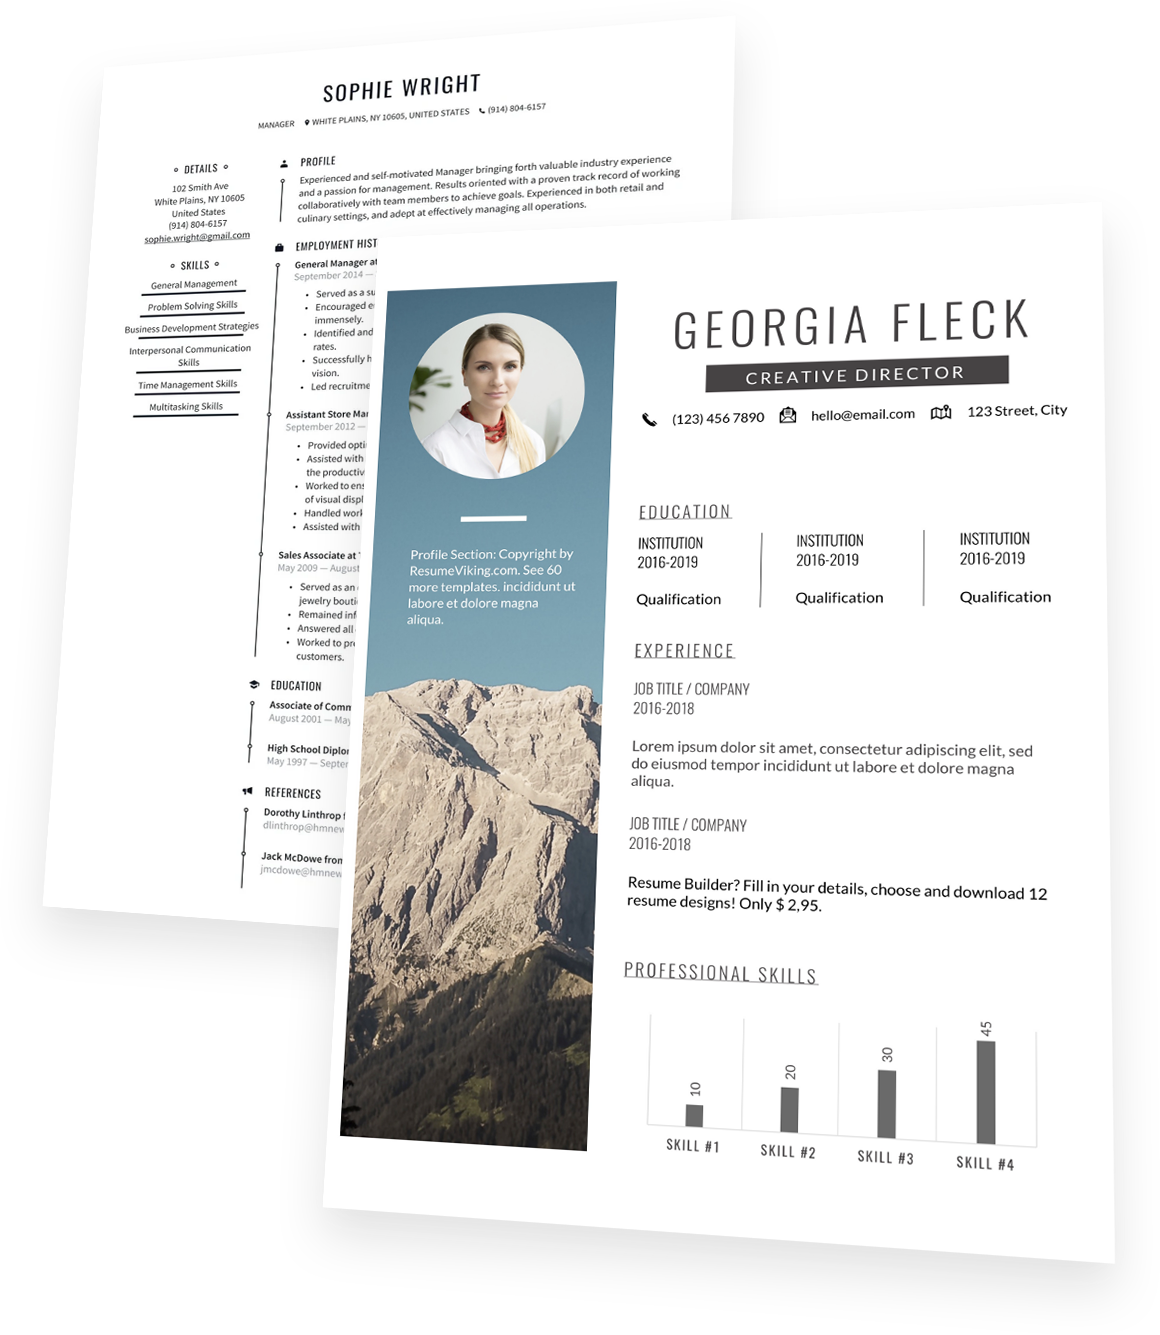
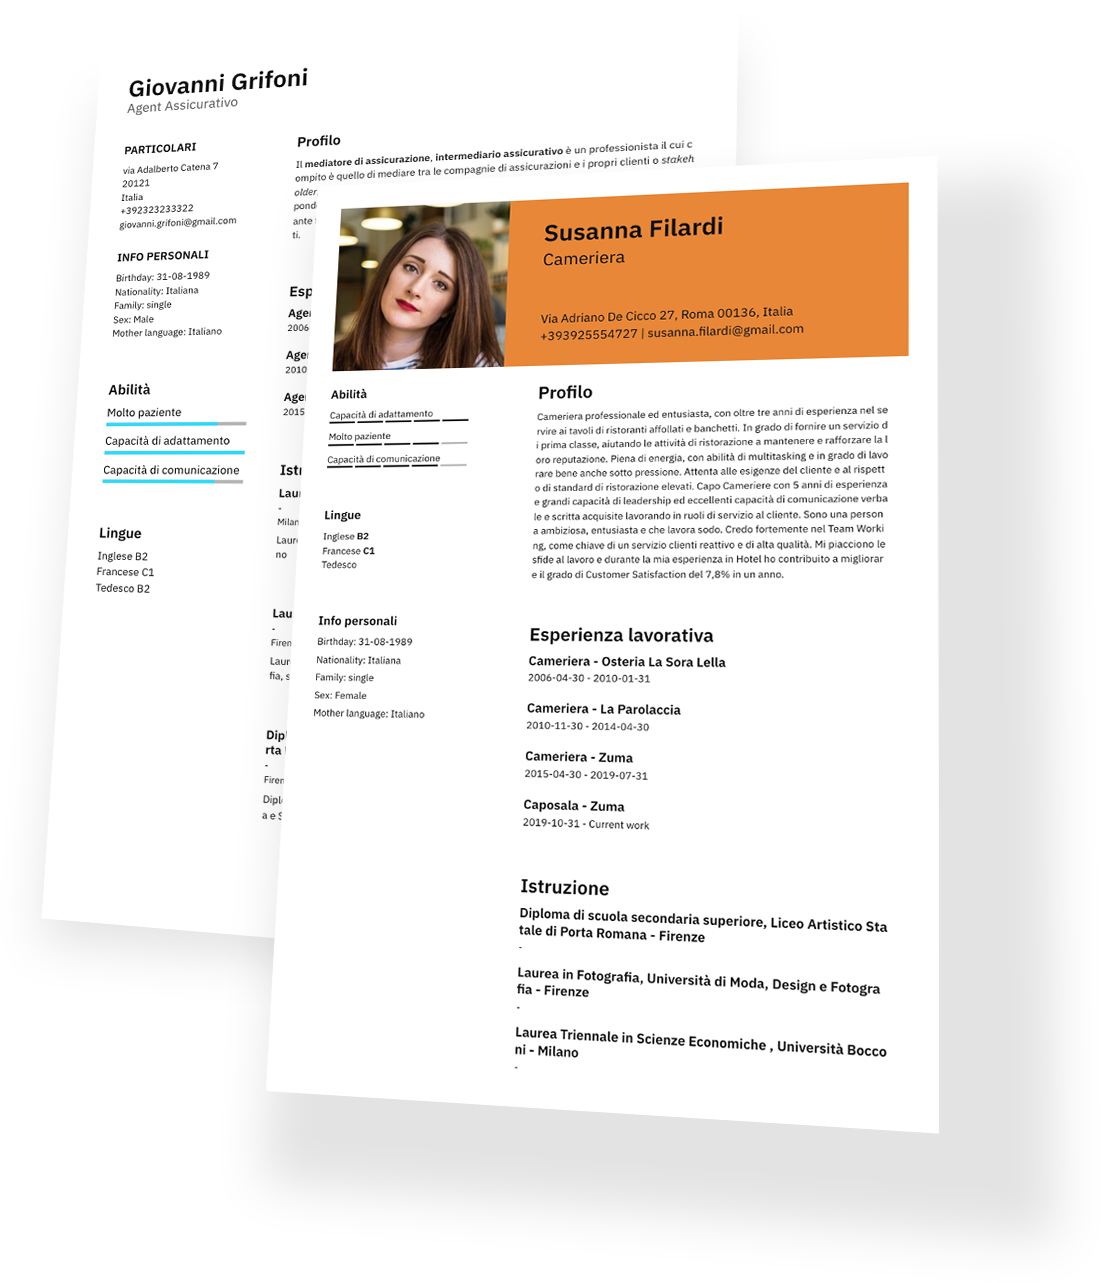
ok

diff --git a/src/components/templates/Template09.vue b/src/components/templates/Template09.vue
@@ -14,7 +14,7 @@
           <div class="col-right">
             <div v-if="personal" class="details mb-4">
                 <div v-if="personal.fullAddress || personal.zipCode || personal.country || personal.phoneNumber || personal.email" class="text-left">
-                  <h3 class="subtitle mb-2">Details</h3>
+                  <h3 class="subtitle mb-2">Particolari</h3>
                   <p class="description mb-0"><span v-if="personal && personal.fullAddress">{{personal.fullAddress}}</span><span v-else>Number of street</span></p>
                   <p class="description mb-0"><span v-if="personal && personal.zipCode">{{personal.zipCode}}</span> <span v-else>zip code</span></p>
                   <p class="description mb-0"><span v-if="personal && personal.country">{{personal.country}}</span> <span v-else>Country</span></p>
@@ -24,7 +24,7 @@
             </div>
             <div v-if="personal" class="mb-5">
                 <div v-if="personal.birthday || personal.nationality || personal.family || personal.sex || motherLang.title" class="text-left">
-                    <h3 class="subtitle mb-2">Personal</h3>
+                    <h3 class="subtitle mb-2">Info personali</h3>
                     <p class="description mb-0"><span v-if="personal && personal.birthday">Birthday: {{personal.birthday}}</span></p>
                     <p class="description mb-0"><span v-if="personal && personal.nationality">Nationality: {{personal.nationality}}</span></p>
                     <p class="description mb-0"><span v-if="personal && personal.family">Family: {{personal.family}}</span></p>
@@ -34,7 +34,7 @@
             </div>
                 <!-- Skills -->
                 <div v-if="skills.length !== 0" class="skills text-left mb-5">
-                    <h2 class="title mb-2">Skills</h2>
+                    <h2 class="title mb-2">Abilità</h2>
                     <div v-for="(skill, i) in skills" :key="i">
                     <p class="skill-name">{{skill.title}}</p>
                     <div class="progress mb-2">
@@ -45,17 +45,17 @@
                 </div>
                 <!-- Languages -->
                 <div v-if="languages.length !== 0" class="languages text-left">
-                    <h2 class="title mb-2">Languages</h2>
+                    <h2 class="title mb-2">Lingue</h2>
                     <p v-for="(lang, i) in languages" :key="i">{{lang.title}} {{lang.langLevel}}</p>
                 </div>
           </div>
           <div class="col-left">
                 <div v-if="accomp" class="text-left mb-5">
-                    <h2 class="title mb-2">Profile</h2>
+                    <h2 class="title mb-2">Profilo</h2>
                     <p class="description" v-html="accomp" />
                 </div>
                 <div v-if="workHistory.length && workHistory[0].jobTitle" class="text-left mb-5">
-                    <h2 class="title mb-2">Employment History</h2>
+                    <h2 class="title mb-2">Esperienza lavorativa</h2>
                     <div v-for="(work, i) in workHistory" :key="i" class="mb-3">
                         <h3 class="subtitle text-capitalize">{{work.jobTitle}}, {{work.employer}}</h3>
                         <p class="date">
@@ -67,7 +67,7 @@
                     </div>
                 </div>
                 <div v-if="education.length && education[0].schoolName" class="text-left">
-                    <h2 class="title mb-2">Education</h2>
+                    <h2 class="title mb-2">Istruzione</h2>
                     <div v-for="(school, i) in education" :key="i" class="mb-3">
                     <h3 class="subtitle text-capitalize">{{school.degree}}, {{school.schoolName}}</h3>
                     <p class="date">{{school.date[0]}} - {{school.date[1]}} <br> {{school.schoolLocation}}</p>
@@ -256,7 +256,7 @@ export default {
 }
 
 .description {
-    font-size: 11px;
+  font-size: 11px;
 }
 
 .date {

diff --git a/src/components/templates/Template04.vue b/src/components/templates/Template04.vue
@@ -14,7 +14,7 @@
       <div class="body">
         <div class="col-left">
           <div v-if="skills.length !== 0" class="skills text-left mb-5">
-            <h2 class="title small">Skills</h2>
+            <h2 class="title small">Abilità</h2>
             <div v-for="(skill, i) in skills" :key="i" class="mb-2">
               <p class="skill-name">{{skill.title}}</p>
               <div ref="rating" class="rating" :rating="skill.rating">
@@ -27,14 +27,14 @@
             </div>
           </div>
           <div v-if="languages.length !== 0" class="languages text-left mb-5">
-            <h2 class="title small">Languages</h2>
+            <h2 class="title small">Lingue</h2>
             <div>
               <p class="description mb-0" v-for="(lang, i) in languages" :key="i">{{lang.title}} <b>{{lang.langLevel}}</b></p>
             </div>
           </div>
           <div v-if="personal">
             <div v-if="personal.birthday || personal.nationality || personal.family || personal.sex || motherLang.title" class="text-left">
-              <h2 class="title small">Personal</h2>
+              <h2 class="title small">Info personali</h2>
               <div>
                 <p class="description mb-1"><span v-if="personal && personal.birthday">Birthday: {{personal.birthday}}</span></p>
                 <p class="description mb-1"><span v-if="personal && personal.nationality">Nationality: {{personal.nationality}}</span></p>
@@ -47,11 +47,11 @@
         </div>
         <div class="col-right">
           <div v-if="accomp" class="profile text-left mb-5">
-            <h2 class="title">Profile</h2>
+            <h2 class="title">Profilo</h2>
             <p class="description" v-html="accomp" />
           </div>
           <div v-if="workHistory.length && workHistory[0].jobTitle" class="work text-left mb-5">
-            <h2 class="title">Employment History</h2>
+            <h2 class="title">Esperienza lavorativa</h2>
             <div v-for="(work, i) in workHistory" :key="i">
               <h3 class="subtitle">
                 {{work.jobTitle}} - {{work.employer}}
@@ -64,7 +64,7 @@
             </div>
           </div>
           <div v-if="education.length && education[0].schoolName" class="education text-left">
-            <h2 class="title">Education</h2>
+            <h2 class="title">Istruzione</h2>
             <div v-for="(school, i) in education" :key="i">
               <h3 class="subtitle">
                 {{school.degree}}, {{school.schoolName}} - {{school.schoolLocation}}
